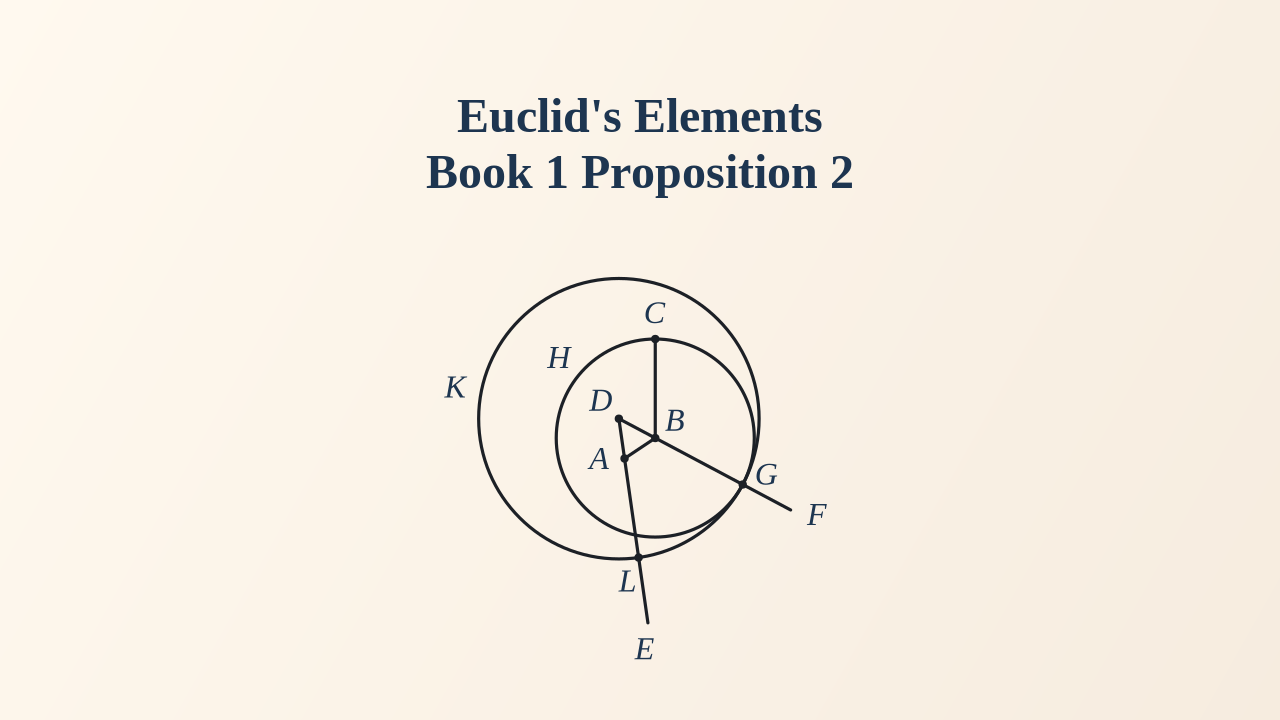
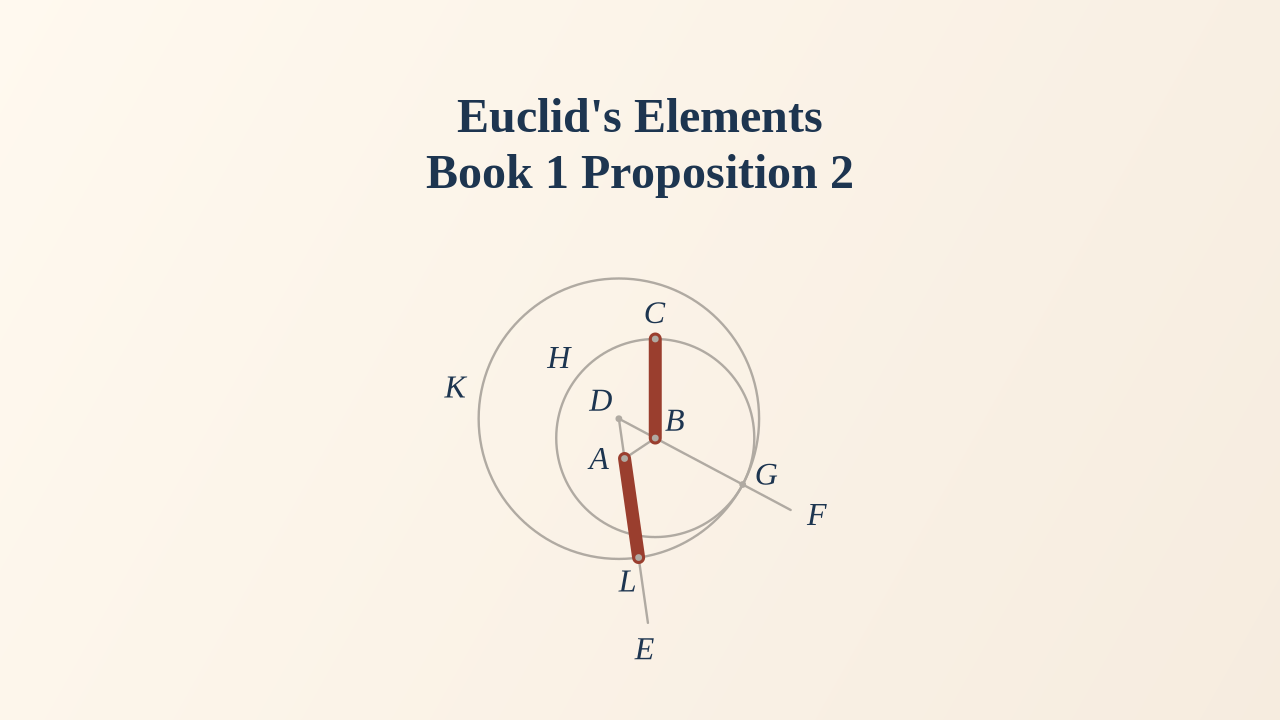
Light the equal lines on the I.2 and I.3 thumbnails. (#55)
Gold on cream reads as mustard and fights the navy type, so the named lines take a brick. Labels stay navy.

diff --git a/scripts/youtube_book1_thumbs.py b/scripts/youtube_book1_thumbs.py
@@ -6,9 +6,12 @@ same size, then the figure the video draws. Geometry is the plate in
 src/figure/book1.rs (Fitzpatrick ink, not a redraw). A wash is only the
 closed figure the enunciation is about — the two equal triangles, the two
 equal parallelograms, the constructed triangle — never a construction line
-and never an angle the proposition does not fill. A proposition about a
-line, an angle, or parallels gets no wash: a wash there would light the
-wrong region.
+and never an angle the proposition does not fill. A proposition about an
+angle or parallels gets no wash: a wash there would light the wrong region.
+A proposition about a line has no interior to wash. I.2 and I.3 light the
+equal lines the enunciation names. The wash gold is too close to the cream
+to read as a line, so those lines take a brick that sits with the navy type.
+Labels stay navy, the color every other card uses.
 """
 
 from __future__ import annotations
@@ -28,8 +31,12 @@ W, H = 1280, 720
 CREAM = (255, 249, 239)
 NAVY = (29, 53, 80)
 GOLD = (212, 184, 122)
+# Line subject. The wash gold disappears on cream; a brick reads against
+# both the cream and the navy letters, and is not a second ink.
+BRICK = (154, 62, 46)
 INK = (28, 32, 38)
 WASH = (232, 214, 176)
+DIM = (176, 170, 162)
 LETTER_R = 0.82  # plate::LETTER_R, em of the letter type
 
 # Subject regions, vertex order around the boundary. Two regions: warm, then gold,
@@ -60,6 +67,14 @@ WASHES: dict[int, list[tuple[str, ...]]] = {
     # wash covers the overlap, so the parallelogram's uncovered half stays
     # the warm region and EBC reads as the second figure.
     41: [("A", "B", "C", "D"), ("E", "B", "C")],
+}
+
+# Lines the card lights. A produced ray is not the subject: only the named piece.
+LINES: dict[int, list[tuple[str, str]]] = {
+    # AL placed at A, equal to the given BC.
+    2: [("A", "L"), ("B", "C")],
+    # AE cut from the greater AB, equal to the lesser C.
+    3: [("A", "E"), ("Cleft", "Cright")],
 }
 
 PLACE_DEG = {
@@ -693,8 +708,15 @@ def render(n: int, scene: Scene, out: Path) -> None:
     # joins that point to the arc, which drew a stroke from "Proposition"
     # into the circle (I.1, I.2, I.3, I.12, I.22).
     cr.new_path()
-    cr.set_source_rgb(*rgb(INK))
-    cr.set_line_width(3.2)
+    lit_segs = LINES.get(n, [])
+    for a, b in lit_segs:
+        if a not in scene.pts or b not in scene.pts:
+            raise SystemExit(f"I.{n}: line {a}{b} missing")
+    lit_ink = {(a, b) for a, b in lit_segs} | {(b, a) for a, b in lit_segs}
+    quiet = bool(lit_segs)
+    ink = rgb(DIM if quiet else INK)
+    cr.set_source_rgb(*ink)
+    cr.set_line_width(2.4 if quiet else 3.2)
     cr.set_line_cap(cairo.LINE_CAP_ROUND)
     for name, r in scene.circs:
         x, y = pt(name)
@@ -710,20 +732,32 @@ def render(n: int, scene: Scene, out: Path) -> None:
         cr.stroke()
     cr.restore()
 
-    cr.set_source_rgb(*rgb(INK))
-    cr.set_line_width(3.2)
+    cr.set_source_rgb(*ink)
+    cr.set_line_width(2.4 if quiet else 3.2)
     cr.set_line_cap(cairo.LINE_CAP_ROUND)
     cr.set_line_join(cairo.LINE_JOIN_ROUND)
     for a, b in scene.segs:
+        if (a, b) in lit_ink:
+            continue
         cr.move_to(*pt(a))
         cr.line_to(*pt(b))
         cr.stroke()
 
-    cr.set_source_rgb(*rgb(INK))
+    # Brick, not the wash gold: gold on cream reads as mustard and fights
+    # the navy type. Labels stay navy, the color every other card uses.
+    cr.set_source_rgb(*rgb(BRICK))
+    cr.set_line_width(13)
+    cr.set_line_cap(cairo.LINE_CAP_ROUND)
+    for a, b in lit_segs:
+        cr.move_to(*pt(a))
+        cr.line_to(*pt(b))
+        cr.stroke()
+
     cr.new_path()
     for p in scene.dot_pts:
         x, y = pt_of(p)
-        cr.arc(x, y, 4.2, 0, math.tau)
+        cr.set_source_rgb(*rgb(INK if not quiet else DIM))
+        cr.arc(x, y, 3.4, 0, math.tau)
         cr.fill()
 
     for name, (anchor, deg, r_em) in scene.labels.items():
@@ -743,7 +777,7 @@ def render(n: int, scene: Scene, out: Path) -> None:
 def main() -> None:
     fns = functions()
     missing = []
-    wanted = list(range(1, 37)) + [41]
+    wanted = [int(a) for a in sys.argv[1:] if a.isdigit()] or (list(range(1, 37)) + [41])
     for n in wanted:
         out = DOCS / f"youtube-book1-proposition{n}.png"
         if out.exists() and "--force" not in sys.argv:
